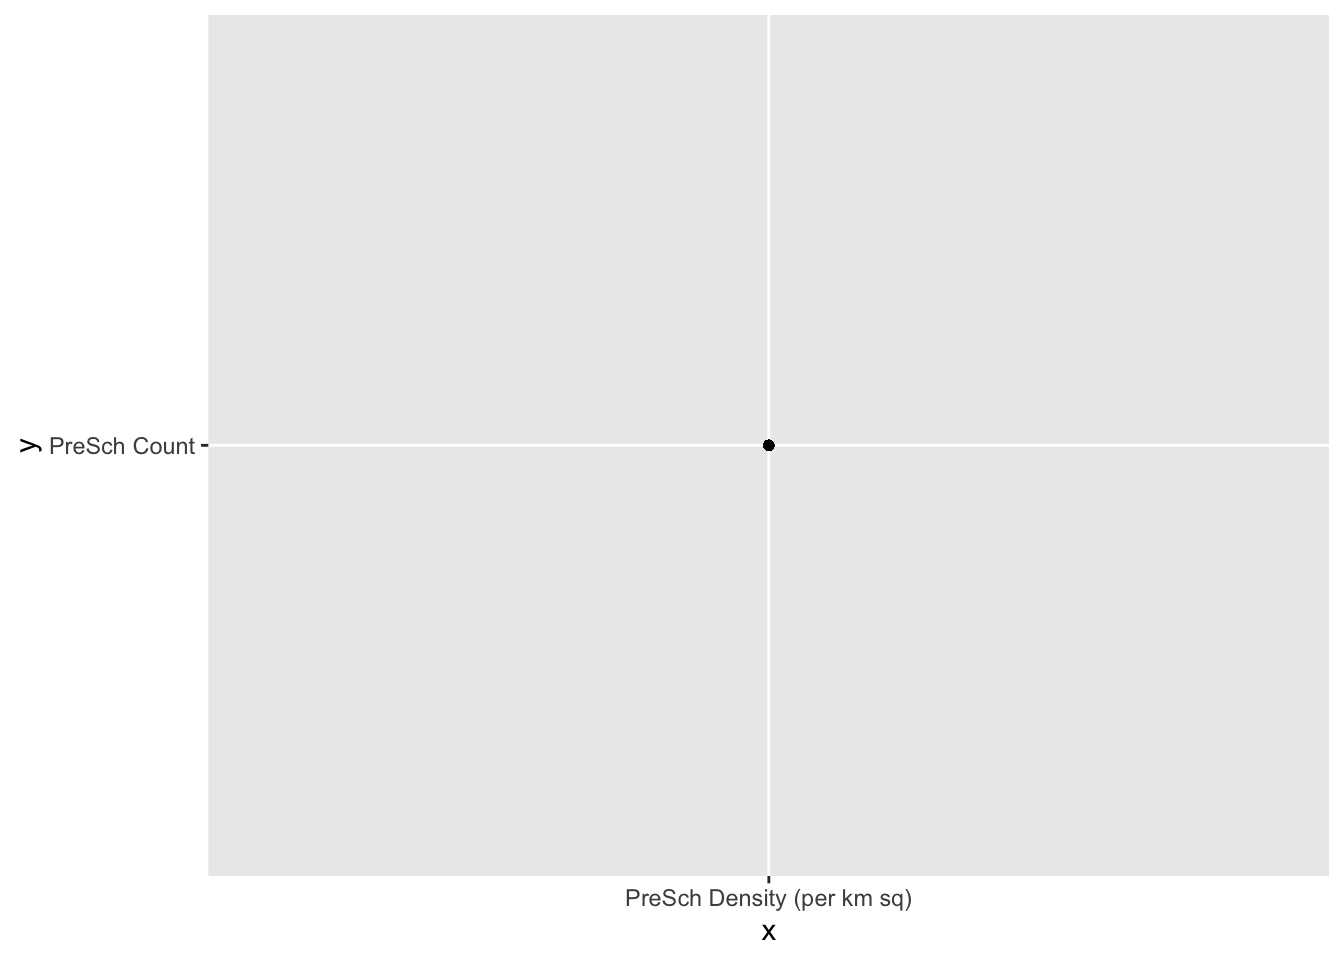
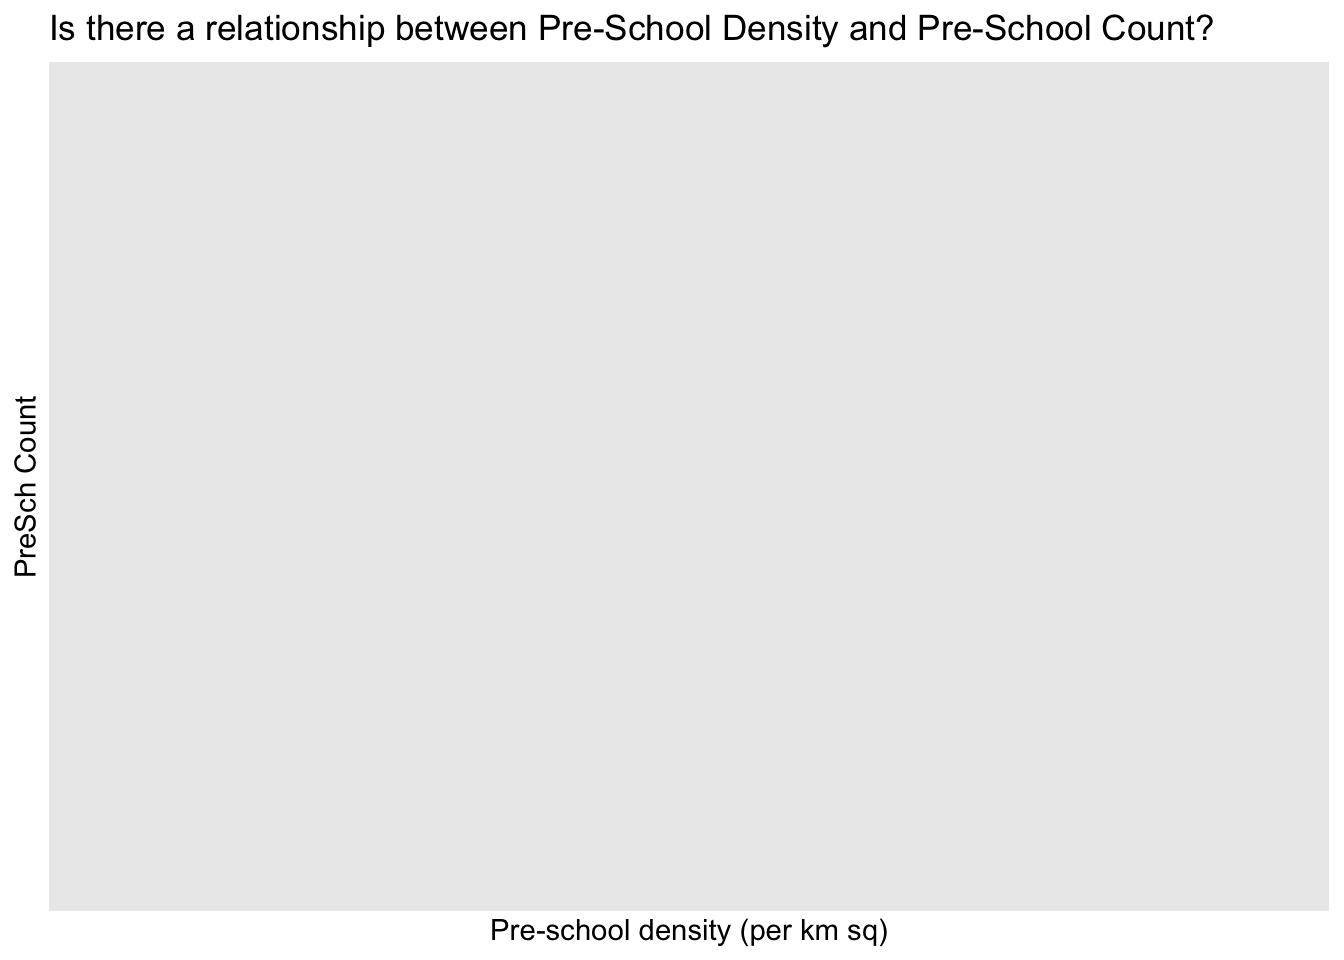
Commit 7th version on Hands-on Exercise 1

Changed region(s): [[0.0, 0.0, 1.0, 1.0], [0.5625, 0.4375, 0.5938, 0.4688]]

diff --git a/_site/Hands-on_Ex1/Hands-on_Ex1.html b/_site/Hands-on_Ex1/Hands-on_Ex1.html
@@ -713,8 +713,77 @@ Projected CRS: SVY21 / Singapore TM
 <section id="plotting-in-scatterplot" class="level3">
 <h3 class="anchored" data-anchor-id="plotting-in-scatterplot">Plotting in Scatterplot</h3>
 <div class="cell">
-<div class="sourceCode cell-code" id="cb46"><pre class="sourceCode r code-with-copy"><code class="sourceCode r"><span id="cb46-1"><a href="#cb46-1" aria-hidden="true" tabindex="-1"></a><span class="fu">ggplot</span>(mpsz3414, <span class="fu">aes</span>(<span class="at">x=</span> <span class="st">'PreSch Density (per km sq)'</span>, <span class="at">y =</span> <span class="st">'PreSch Count'</span>)) <span class="sc">+</span> </span>
-<span id="cb46-2"><a href="#cb46-2" aria-hidden="true" tabindex="-1"></a>  <span class="fu">geom_point</span>(<span class="at">size=</span><span class="dv">2</span>, <span class="at">shape=</span><span class="dv">20</span>)</span></code><button title="Copy to Clipboard" class="code-copy-button"><i class="bi"></i></button></pre></div>
+<div class="sourceCode cell-code" id="cb46"><pre class="sourceCode r code-with-copy"><code class="sourceCode r"><span id="cb46-1"><a href="#cb46-1" aria-hidden="true" tabindex="-1"></a>mpsz3414</span></code><button title="Copy to Clipboard" class="code-copy-button"><i class="bi"></i></button></pre></div>
+<div class="cell-output cell-output-stdout">
+<pre><code>Simple feature collection with 323 features and 18 fields
+Geometry type: MULTIPOLYGON
+Dimension:     XY
+Bounding box:  xmin: 2667.538 ymin: 15748.72 xmax: 56396.44 ymax: 50256.33
+Projected CRS: SVY21 / Singapore TM
+First 10 features:
+   OBJECTID SUBZONE_NO       SUBZONE_N SUBZONE_C CA_IND      PLN_AREA_N
+1         1          1    MARINA SOUTH    MSSZ01      Y    MARINA SOUTH
+2         2          1    PEARL'S HILL    OTSZ01      Y          OUTRAM
+3         3          3       BOAT QUAY    SRSZ03      Y SINGAPORE RIVER
+4         4          8  HENDERSON HILL    BMSZ08      N     BUKIT MERAH
+5         5          3         REDHILL    BMSZ03      N     BUKIT MERAH
+6         6          7  ALEXANDRA HILL    BMSZ07      N     BUKIT MERAH
+7         7          9   BUKIT HO SWEE    BMSZ09      N     BUKIT MERAH
+8         8          2     CLARKE QUAY    SRSZ02      Y SINGAPORE RIVER
+9         9         13 PASIR PANJANG 1    QTSZ13      N      QUEENSTOWN
+10       10          7       QUEENSWAY    QTSZ07      N      QUEENSTOWN
+   PLN_AREA_C       REGION_N REGION_C          INC_CRC FMEL_UPD_D   X_ADDR
+1          MS CENTRAL REGION       CR 5ED7EB253F99252E 2014-12-05 31595.84
+2          OT CENTRAL REGION       CR 8C7149B9EB32EEFC 2014-12-05 28679.06
+3          SR CENTRAL REGION       CR C35FEFF02B13E0E5 2014-12-05 29654.96
+4          BM CENTRAL REGION       CR 3775D82C5DDBEFBD 2014-12-05 26782.83
+5          BM CENTRAL REGION       CR 85D9ABEF0A40678F 2014-12-05 26201.96
+6          BM CENTRAL REGION       CR 9D286521EF5E3B59 2014-12-05 25358.82
+7          BM CENTRAL REGION       CR 7839A8577144EFE2 2014-12-05 27680.06
+8          SR CENTRAL REGION       CR 48661DC0FBA09F7A 2014-12-05 29253.21
+9          QT CENTRAL REGION       CR 1F721290C421BFAB 2014-12-05 22077.34
+10         QT CENTRAL REGION       CR 3580D2AFFBEE914C 2014-12-05 24168.31
+     Y_ADDR SHAPE_Leng SHAPE_Area                       geometry PreSch Count
+1  29220.19   5267.381  1630379.3 MULTIPOLYGON (((31495.56 30...            0
+2  29782.05   3506.107   559816.2 MULTIPOLYGON (((29092.28 30...            5
+3  29974.66   1740.926   160807.5 MULTIPOLYGON (((29932.33 29...            0
+4  29933.77   3313.625   595428.9 MULTIPOLYGON (((27131.28 30...            2
+5  30005.70   2825.594   387429.4 MULTIPOLYGON (((26451.03 30...            1
+6  29991.38   4428.913  1030378.8 MULTIPOLYGON (((25899.7 297...           10
+7  30230.86   3275.312   551732.0 MULTIPOLYGON (((27746.95 30...            4
+8  30222.86   2208.619   290184.7 MULTIPOLYGON (((29351.26 29...            4
+9  29893.78   6571.323  1084792.3 MULTIPOLYGON (((20996.49 30...            3
+10 30104.18   3454.239   631644.3 MULTIPOLYGON (((24472.11 29...            1
+              Area    PreSch Density
+1  1630379.3 [m^2]  0.000000 [1/m^2]
+2   559816.2 [m^2]  8.931502 [1/m^2]
+3   160807.5 [m^2]  0.000000 [1/m^2]
+4   595428.9 [m^2]  3.358923 [1/m^2]
+5   387429.4 [m^2]  2.581115 [1/m^2]
+6  1030378.8 [m^2]  9.705169 [1/m^2]
+7   551732.0 [m^2]  7.249896 [1/m^2]
+8   290184.7 [m^2] 13.784327 [1/m^2]
+9  1084792.3 [m^2]  2.765506 [1/m^2]
+10  631644.3 [m^2]  1.583170 [1/m^2]</code></pre>
+</div>
+<div class="sourceCode cell-code" id="cb48"><pre class="sourceCode r code-with-copy"><code class="sourceCode r"><span id="cb48-1"><a href="#cb48-1" aria-hidden="true" tabindex="-1"></a><span class="fu">ggplot</span>(mpsz3414, <span class="fu">aes</span>(<span class="at">x =</span> <span class="fu">as.numeric</span>(<span class="st">'PreSch Density'</span>), <span class="at">y =</span> <span class="fu">as.numeric</span>(<span class="st">'PreSch Count'</span>))) <span class="sc">+</span> </span>
+<span id="cb48-2"><a href="#cb48-2" aria-hidden="true" tabindex="-1"></a>  <span class="fu">geom_point</span>(<span class="at">size=</span><span class="dv">2</span>) <span class="sc">+</span></span>
+<span id="cb48-3"><a href="#cb48-3" aria-hidden="true" tabindex="-1"></a>  </span>
+<span id="cb48-4"><a href="#cb48-4" aria-hidden="true" tabindex="-1"></a>  <span class="fu">labs</span>(<span class="at">title =</span> <span class="st">"Is there a relationship between Pre-School Density and Pre-School Count?"</span>,</span>
+<span id="cb48-5"><a href="#cb48-5" aria-hidden="true" tabindex="-1"></a>       <span class="at">x =</span> <span class="st">"Pre-school density (per km sq)"</span>,</span>
+<span id="cb48-6"><a href="#cb48-6" aria-hidden="true" tabindex="-1"></a>       <span class="at">y =</span> <span class="st">"PreSch Count"</span>)</span></code><button title="Copy to Clipboard" class="code-copy-button"><i class="bi"></i></button></pre></div>
+<div class="cell-output cell-output-stderr">
+<pre><code>Warning in FUN(X[[i]], ...): NAs introduced by coercion
+
+Warning in FUN(X[[i]], ...): NAs introduced by coercion
+
+Warning in FUN(X[[i]], ...): NAs introduced by coercion
+
+Warning in FUN(X[[i]], ...): NAs introduced by coercion</code></pre>
+</div>
+<div class="cell-output cell-output-stderr">
+<pre><code>Warning: Removed 323 rows containing missing values (`geom_point()`).</code></pre>
+</div>
 <div class="cell-output-display">
 <p><img src="Hands-on_Ex1_files/figure-html/unnamed-chunk-18-1.png" class="img-fluid" width="672"></p>
 </div>
